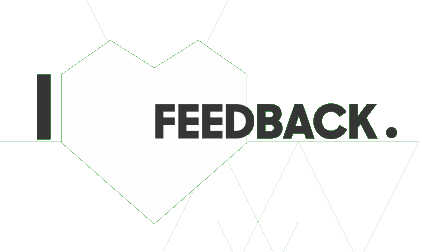
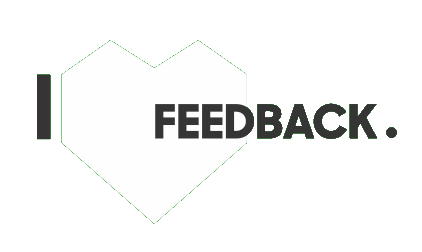
more speaker notes. fix feedback image

Changed region(s): [[0.5853, 0.5556, 1.0, 0.5833], [0.0, 0.5278, 0.1232, 0.5833], [0.5853, 0.8611, 0.6161, 0.8889]]

diff --git a/index.html b/index.html
@@ -137,17 +137,27 @@
             <li class="fragment">Examples: <a href="https://presentations.futurice.com/app-ratings/censored.html">App ratings</a>
           </ul>
           <aside class="notes">
+            The average project, of course we do other kinds of stuff too. Also applications for business-to-business use but in all projects we try to achieve the best possible, consumer-grade usability.
+            In smallest mobile project cases only one-man show but we try to avoid those.
+            Usually one designer and a few developers. Sometimes can be business consultants, analytics, design, even a few dev teams, a scrum master, event 10 persons. Communication, close to customer, whole team in same place. Some projects are done in Futurice office. Many projects stay for further development in our Lifecycle managemen model which tries to tacle the budgeting challenges but keep the service alive.
           </aside>
         </section>
 
         <section data-background="img/bg04.png" class="futurice-front1">
           <h2>Ways of working</h2>
-          <p class="images">
+          <p class="big-images">
             <img class="fragment" src="img/kanban-board.jpg">
             <img class="fragment" src="img/love-feedback.png">
             <img class="fragment" src="img/radiators.jpg">
           </p>
           <h3 class="fragment" style="color: #46289A;">Communication!</h3>
+          <aside class="notes">
+            Trust the teams. There's no one solution that fits all projects.
+            Usually agile methods: Scrum, Kanban, Pair programming, code review, stuff like that. This is a kanban board from a longer project.
+            Feedback cycle, build-measure-learn, Continuous Integration, Delivery, Builds, Testing.
+            Visualizing status, radiators. Project and backlog status. We use a *lot* of post-its and whiteboards!
+            Most important aspect: communication! Together and with customer.
+          </aside>
         </section>
 
         <section data-background="img/bg03.png" class="futurice-front1">
@@ -160,6 +170,10 @@
             <li>Development automation
             <li>Communication!
           </uL>
+          <aside class="notes">
+            Also here, no one choice that fits all. Usually like this.
+            Also here communication is important. The selections are made together and we respect our customer too. "If need be, we will defend you from yourself"
+          </aside>
         </section>
 
         <section data-background="img/bg07.png" class="futurice-front1">

diff --git a/css/theme/futurice.css b/css/theme/futurice.css
@@ -187,6 +187,11 @@ p.images img {
   margin-right: 40px;
 }
 
+p.big-images img {
+  height: 250px;
+  margin-right: 70px;
+}
+
 p.images-wide img {
   width: 300px;
   margin-right: 70px;
